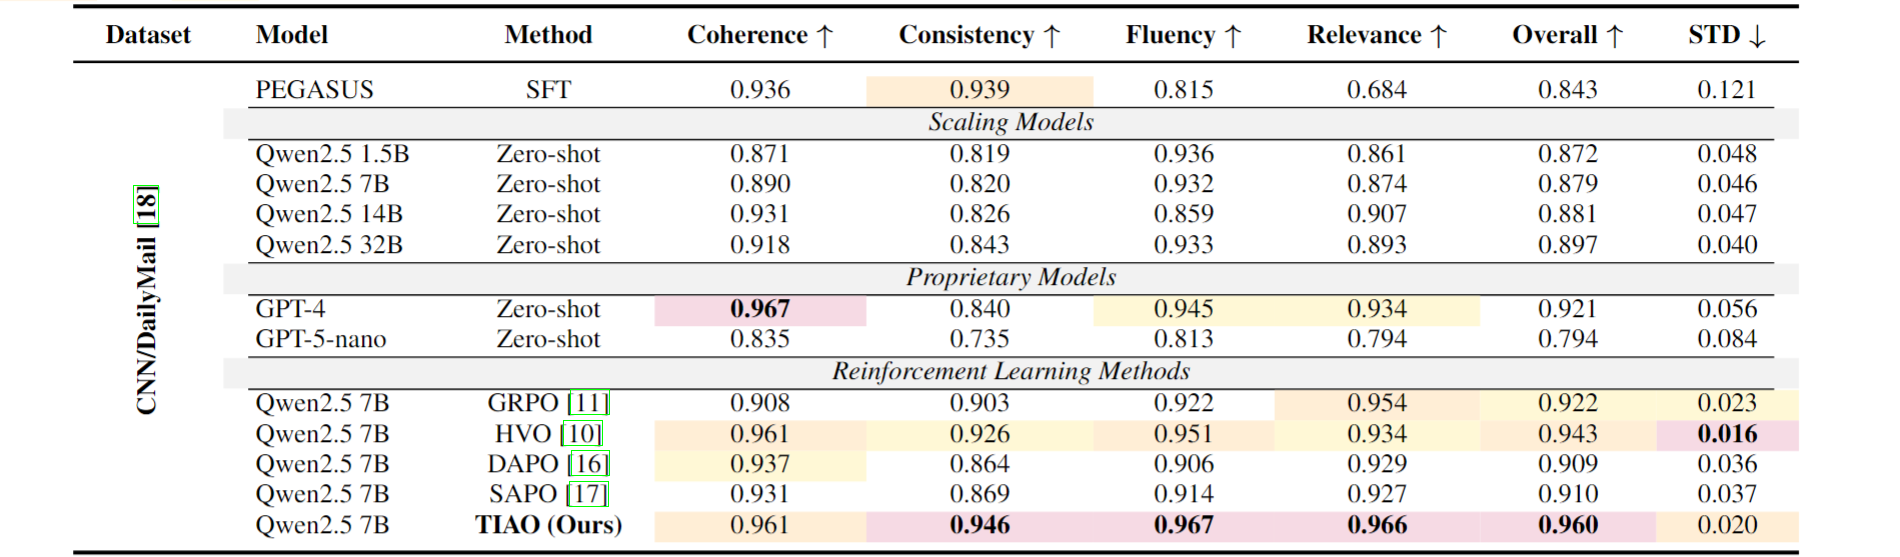
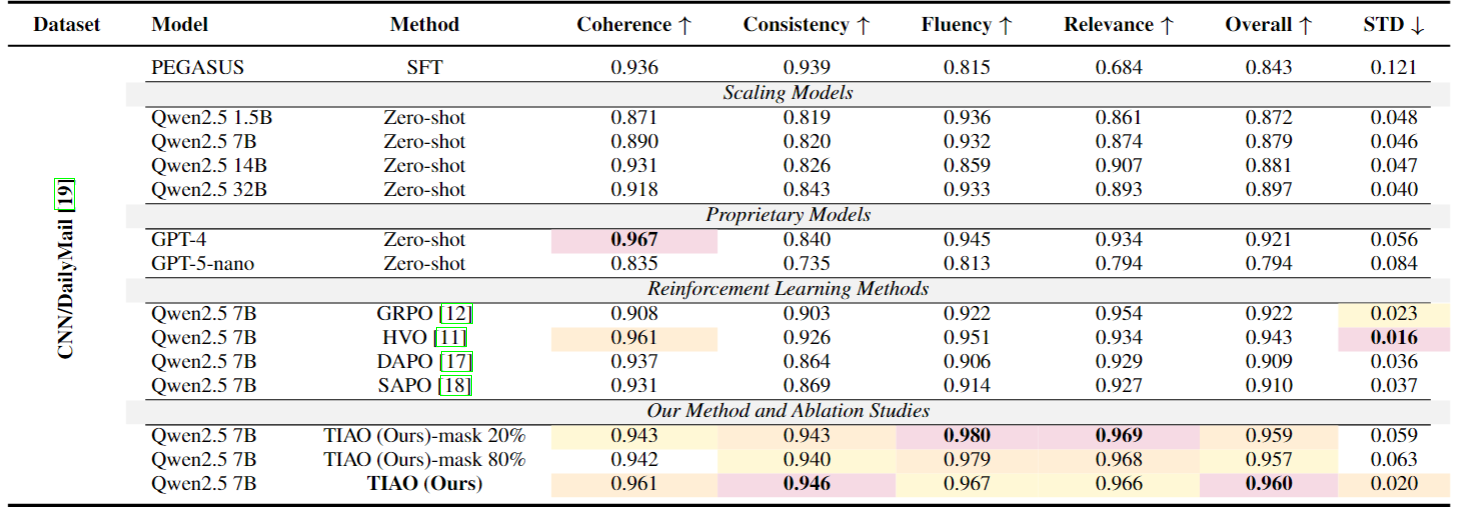
Update results table and center project summary

diff --git a/README.md b/README.md
@@ -14,7 +14,7 @@
   </p>
 </div>
 
-TIAO adds hierarchical token-level credit assignment to group-relative policy optimization for abstractive summarization.
+<p align="center">TIAO adds hierarchical token-level credit assignment to group-relative policy optimization for abstractive summarization.</p>
 
 <a id="table-of-contents"></a>
 
